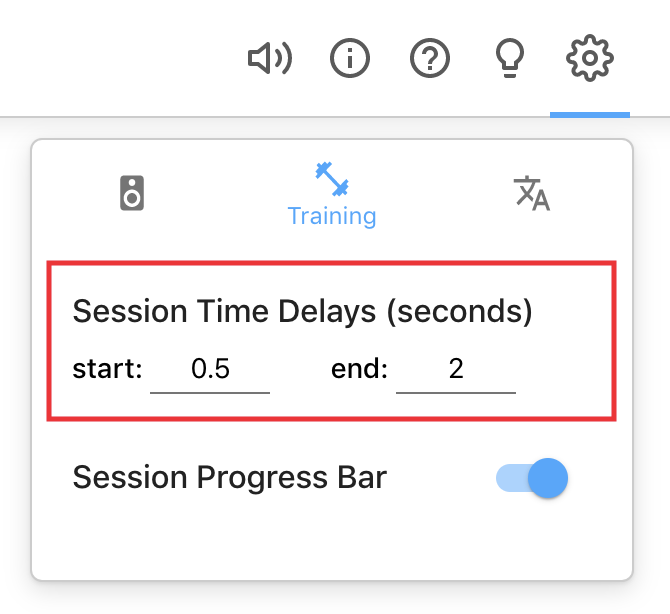
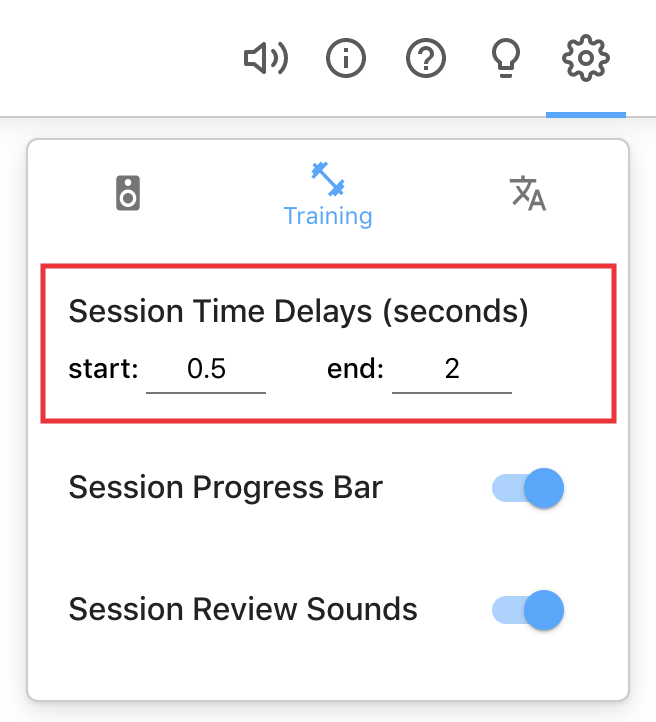
Added option to toggle session review sounds and added docs for that and Chrome issue

diff --git a/src/components/help/TrainerHelpPage.jsx b/src/components/help/TrainerHelpPage.jsx
@@ -19,11 +19,14 @@ import ImgTxtEnt from "../../images/helpdocs/trainer_txtent.png";
 import ImgTxtBin from "../../images/helpdocs/trainer_txtbin.png";
 import ImgBegin from "../../images/helpdocs/trainer_begin.png";
 import ImgSession from "../../images/helpdocs/trainer_session.png";
-import ImgProgress from "../../images/helpdocs/trainer_progress.png";
+import ImgProgress from "../../images/helpdocs/trainer_progressbar.png";
 import ImgDelays from "../../images/helpdocs/trainer_delays.png";
 import ImgStats from "../../images/helpdocs/trainer_reviewstats.png";
 import ImgTextReview from "../../images/helpdocs/trainer_textreview.png";
 import ImgReviewOptions from "../../images/helpdocs/trainer_reviewoptions.png";
+import ImgReviewSounds from "../../images/helpdocs/trainer_reviewsounds.png";
+import ImgAllowSounds from "../../images/helpdocs/trainer_allowreviewsounds.png";
+
 
 export default function TrainerHelpPage(props) {
 
@@ -195,12 +198,12 @@ export default function TrainerHelpPage(props) {
         session has been completed. The presence of the <b>progress bar</b> can be set using a <b>toggle switch</b> labelled <em>Session Progress 
         Bar</em> in the <b>training section</b> of the <b>settings</b> located at the top right of the application. This 
         change takes effect in the next session.</p>
-        <img src={ImgProgress} alt="Progress bar" width='335' height='307' />
+        <img src={ImgProgress} alt="Progress bar" width='328' height='361' />
         <p>A time delay can be added before the start of a session in order to give the user time to compose themselves before the morse 
         code begins to play. Additionally, time can be added to the end of a session in order for the user to finish transcribing the morse 
         code. These delays can be altered using the respective <b>input fields</b> in the <b>training section</b> of 
         the <b>settings</b> located in the top right of the application. These changes take effect in the next session.</p>
-        <img src={ImgDelays} alt="Delays" width='335' height='307' />
+        <img src={ImgDelays} alt="Delays" width='328' height='361' />
       </div>
       <div id="section-trainer-reviewing-a-session" className="topicSection">
         <h3>Reviewing a Session</h3>
@@ -213,6 +216,15 @@ export default function TrainerHelpPage(props) {
         are highlighted yellow. Similarly to the sent transcript, characters that were mistakes that should have been copied as differing characters 
         are highlighted red in the user entry and any characters that were extra are highlighted yellow.</p>
         <img src={ImgTextReview} alt="Text review" width='556' height='224' />
+        <p>A <b>session review sound effect</b> will also play which gives you an immediate indication of your performance upon completing a 
+        session. This can be toggled on or off using a <b>toggle switch</b> labelled <em>Session Review Sounds</em> in 
+        the <b>training section</b> of the <b>settings</b> located at the top right of the application.</p>
+        <img src={ImgReviewSounds} alt="Toggle review sounds" width='328' height='361' />
+        <p>Some users may not be able to hear the session review sounds when using Google Chrome as some audio playback is blocked by Chrome's 
+        anti-autoplay feature. The feature is intended to prevent irritating background audio adverts that plague some sites, however, the morse 
+        trainer does not feature any such crimes against user experience. To allowlist the morse trainer, click on the <b>padlock</b> in 
+        the <b>address bar</b> and ensure that <em>Sound</em> is set to <em>Allow</em>.</p>
+        <img src={ImgAllowSounds} alt="Allow review sounds" width='439' height='390' />
         <p>In order to close the session review, click on the <b>close button</b>. To try again, click on the <b>retry button</b>.</p>
         <img src={ImgReviewOptions} alt="Review options" width='193' height='55' />
       </div>

diff --git a/src/components/navbar/TrainingSettingsPane.jsx b/src/components/navbar/TrainingSettingsPane.jsx
@@ -28,15 +28,17 @@ const validateEnd = val => {
 };
 
 const TrainingSettingsPane = ({visible}) => {
-  const { getPreDelay, setPreDelay, getPostDelay, setPostDelay, getProgressBar, setProgressBar } = useContext(AudioContext);
+  const { getPreDelay, setPreDelay, getPostDelay, setPostDelay, getProgressBar, setProgressBar, getReviewSounds, setReviewSounds } = useContext(AudioContext);
   
   const intialPreDelay = getPreDelay();
   const intialPostDelay = getPostDelay();
   const initialProgressBar = getProgressBar();
+  const initialReviewSounds = getReviewSounds();
 
   const [startDelay, setStartDelay] = useState(intialPreDelay);
   const [endDelay, setEndDelay] = useState(intialPostDelay);
   const [progBar, setProgBar] = useState(initialProgressBar);
+  const [revSounds, setRevSounds] = useState(initialReviewSounds);
 
 
   const handleStartInputChange = event => {
@@ -84,6 +86,11 @@ const TrainingSettingsPane = ({visible}) => {
     setProgBar(prev => !prev);
   };
 
+  const toggleReviewSounds = () => {
+    setReviewSounds(!revSounds);
+    setRevSounds(prev => !prev);
+  };
+
   return (
     <div className="SettingsPane">
       <h4>Session Time Delays (seconds)</h4>
@@ -115,6 +122,14 @@ const TrainingSettingsPane = ({visible}) => {
       <SSwitch
         checked={progBar}
         onChange={toggleProgressBar}
+        color="primary"
+        inputProps={{ "aria-label": "primary checkbox" }}
+        {...(visible === false && { tabIndex: "-1" })}
+      />
+      <h4 style={{width: "calc(100% - 50px)", float: "left", marginTop: "32px"}}>Session Review Sounds</h4>
+      <SSwitch
+        checked={revSounds}
+        onChange={toggleReviewSounds}
         color="primary"
         inputProps={{ "aria-label": "primary checkbox" }}
         {...(visible === false && { tabIndex: "-1" })}

diff --git a/src/components/trainer/SessionReviewContainer.jsx b/src/components/trainer/SessionReviewContainer.jsx
@@ -38,7 +38,7 @@ const getResultType = c => {
 
 const SessionReviewContainer = ({latestScript, latestAnswer, visible, closeResultsClicked, retryClicked}) => {
   
-  const {playReviewSound} = useContext(AudioContext);
+  const { playReviewSound, getReviewSounds } = useContext(AudioContext);
 
   useEffect(() => {
     if (visible) {
@@ -55,13 +55,15 @@ const SessionReviewContainer = ({latestScript, latestAnswer, visible, closeResul
       mistakesPresent = latestResults.mistakesPresent;
       missesPresent = latestResults.missesPresent;
       extraPresent = latestResults.extraPresent;
-      if (overallScore < 90) {
-        playReviewSound(2);
-      } else {
-        if (overallScore < 100) {
-          playReviewSound(1);
+      if (getReviewSounds()) {
+        if (overallScore < 90) {
+          playReviewSound(2);
         } else {
-          playReviewSound(0);
+          if (overallScore < 100) {
+            playReviewSound(1);
+          } else {
+            playReviewSound(0);
+          }
         }
       }
     }

diff --git a/src/context/AudioContext.js b/src/context/AudioContext.js
@@ -239,6 +239,16 @@ export function AudioProvider(props) {
   const setProgressBar = pb => {
     window.localStorage.setItem("progressBar", pb);
   }
+
+  const getReviewSounds = () => {
+    let rs = window.localStorage.getItem("reviewSounds");
+    if (rs === null || rs === undefined) rs = "true";
+    return rs === "true";
+  }
+  
+  const setReviewSounds = rs => {
+    window.localStorage.setItem("reviewSounds", rs);
+  }
   
   const getWaveform = () => {
     const wf = getValidWaveform(window.localStorage.getItem("waveform"));
@@ -326,6 +336,8 @@ export function AudioProvider(props) {
         setSessionTimeLimit,
         getProgressBar,
         setProgressBar,
+        getReviewSounds,
+        setReviewSounds,
         getSessionSource,
         setSessionSource,
         getTextEntryString,

diff --git a/src/services/morse/morse-player.js b/src/services/morse/morse-player.js
@@ -2,7 +2,7 @@ import morseTranslation, * as morsetrans from "./morse-translation.js";
 const AudioContext = window.AudioContext || window.webkitAudioContext;
 const audioCtx = new AudioContext();
 let oscillator = audioCtx.createOscillator();
-let panner = audioCtx.createStereoPanner();
+let panner = new StereoPannerNode(audioCtx, {pan: 0});
 let masterGain = audioCtx.createGain();
 masterGain.gain.setValueAtTime(Math.pow(0.8, 2.0), audioCtx.currentTime);
 

diff --git a/src/components/navbar/SettingsDropdown.css b/src/components/navbar/SettingsDropdown.css
@@ -61,7 +61,7 @@
 }
 
 #settingsDDContainer.pane-1 {
-  height: 220px;
+  height: 280px;
 }
 
 #settingsDDContainer.pane-1 #settingsContent {
